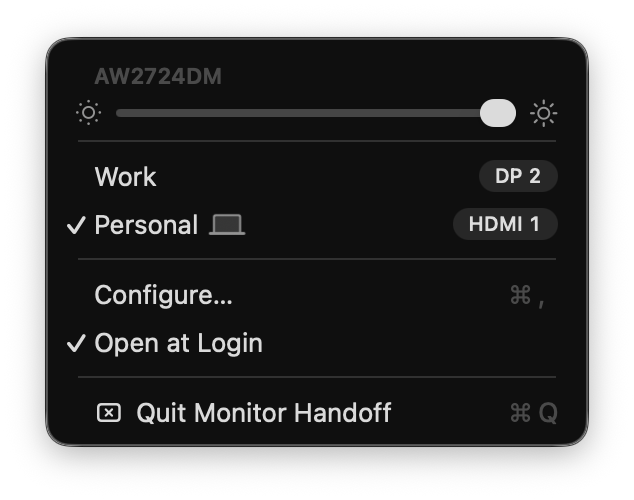
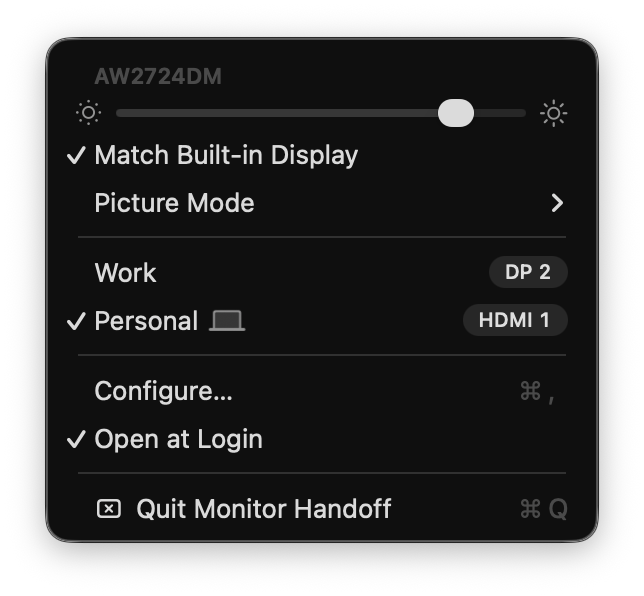
Retake the README screenshot with brightness matching and picture modes

diff --git a/README.md b/README.md
@@ -7,7 +7,7 @@ seconds: when it is not this Mac's input, the display leaves macOS as if its cab
 when the monitor comes back, so does the display. Switch with the monitor's own buttons or from
 the menu.
 
-<img src="screenshots/menu.png" width="317" alt="The menu">
+<img src="screenshots/menu.png" width="322" alt="The menu">
 
 - The menu lists the monitor's inputs, as the monitor itself reports them, checks the current one
   and switches on a click. This Mac's input carries a laptop icon.
